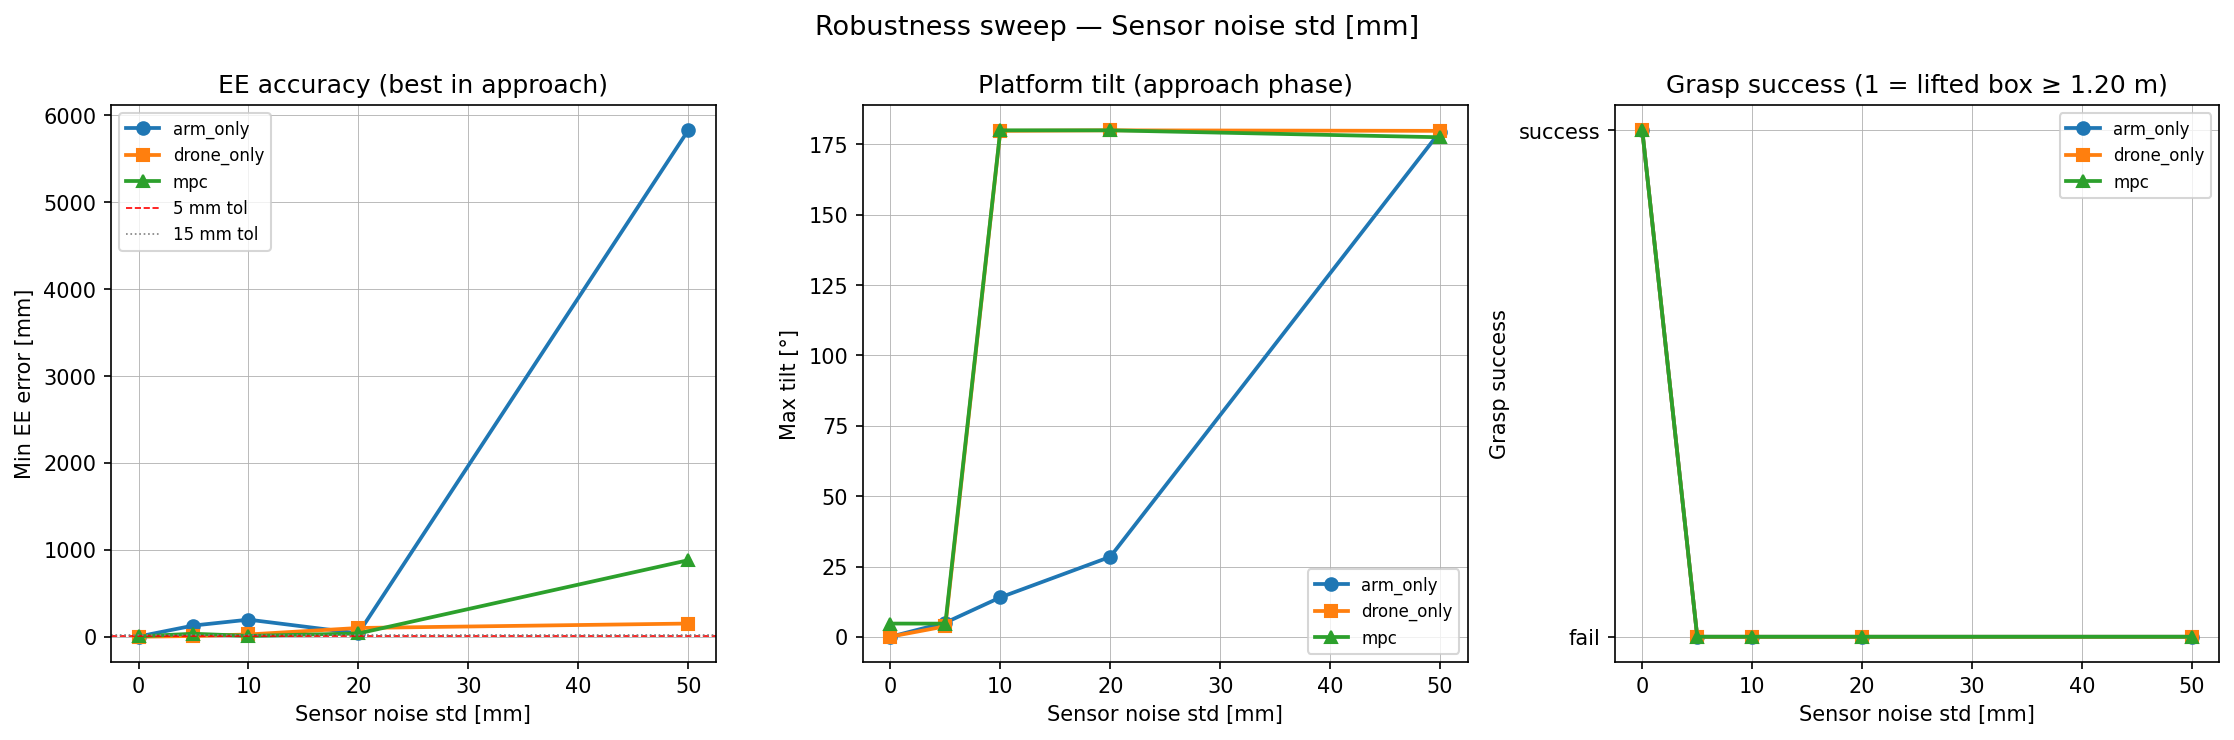
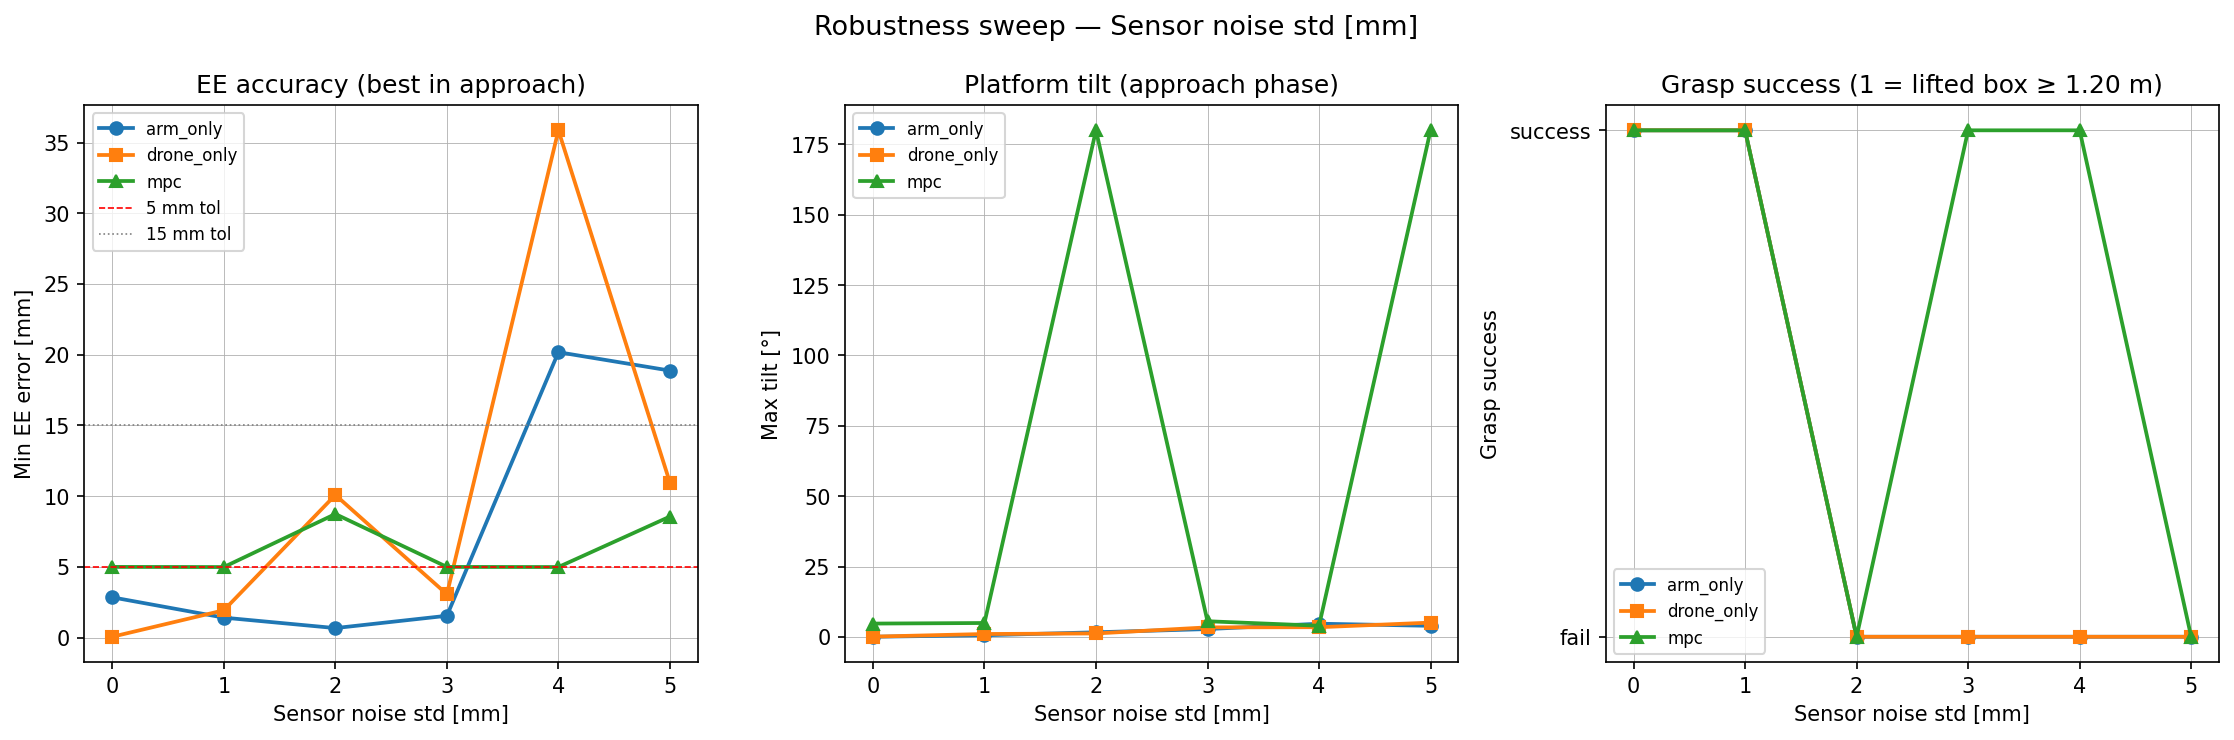
tests

diff --git a/demo/robustness_test.py b/demo/robustness_test.py
@@ -49,16 +49,16 @@ from demo.compare_methods import compute_metrics
 # ---------------------------------------------------------------------------
 
 # Wind sweep: lateral force in world X direction [N]
-WIND_LEVELS = np.array([0.0, 0.2, 0.4, 0.6, 0.8, 1.0])
+WIND_LEVELS = np.array([0.0, 0.1, 0.2, 0.3, 0.4, 0.5])
 
 # Mass scale sweep: fraction of nominal mass
 MASS_LEVELS = np.array([0.80, 0.85, 0.90, 0.95, 1.00, 1.05, 1.10, 1.15, 1.20])
 
 # Actuator delay sweep [seconds]
-DELAY_LEVELS = np.array([0.0, 0.01, 0.02, 0.05, 0.10, 0.20])
+DELAY_LEVELS = np.array([0.0, 0.005, 0.01, 0.015, 0.020, 0.025])
 
 # Sensor noise std sweep [metres] — scales all sensor noise proportionally
-NOISE_LEVELS = np.array([0.0, 0.005, 0.010, 0.020, 0.050])
+NOISE_LEVELS = np.array([0.0, 0.001, 0.002, 0.003, 0.004, 0.005])
 
 # Phase IDs used by each method's log
 _PID_APPROACH = 3